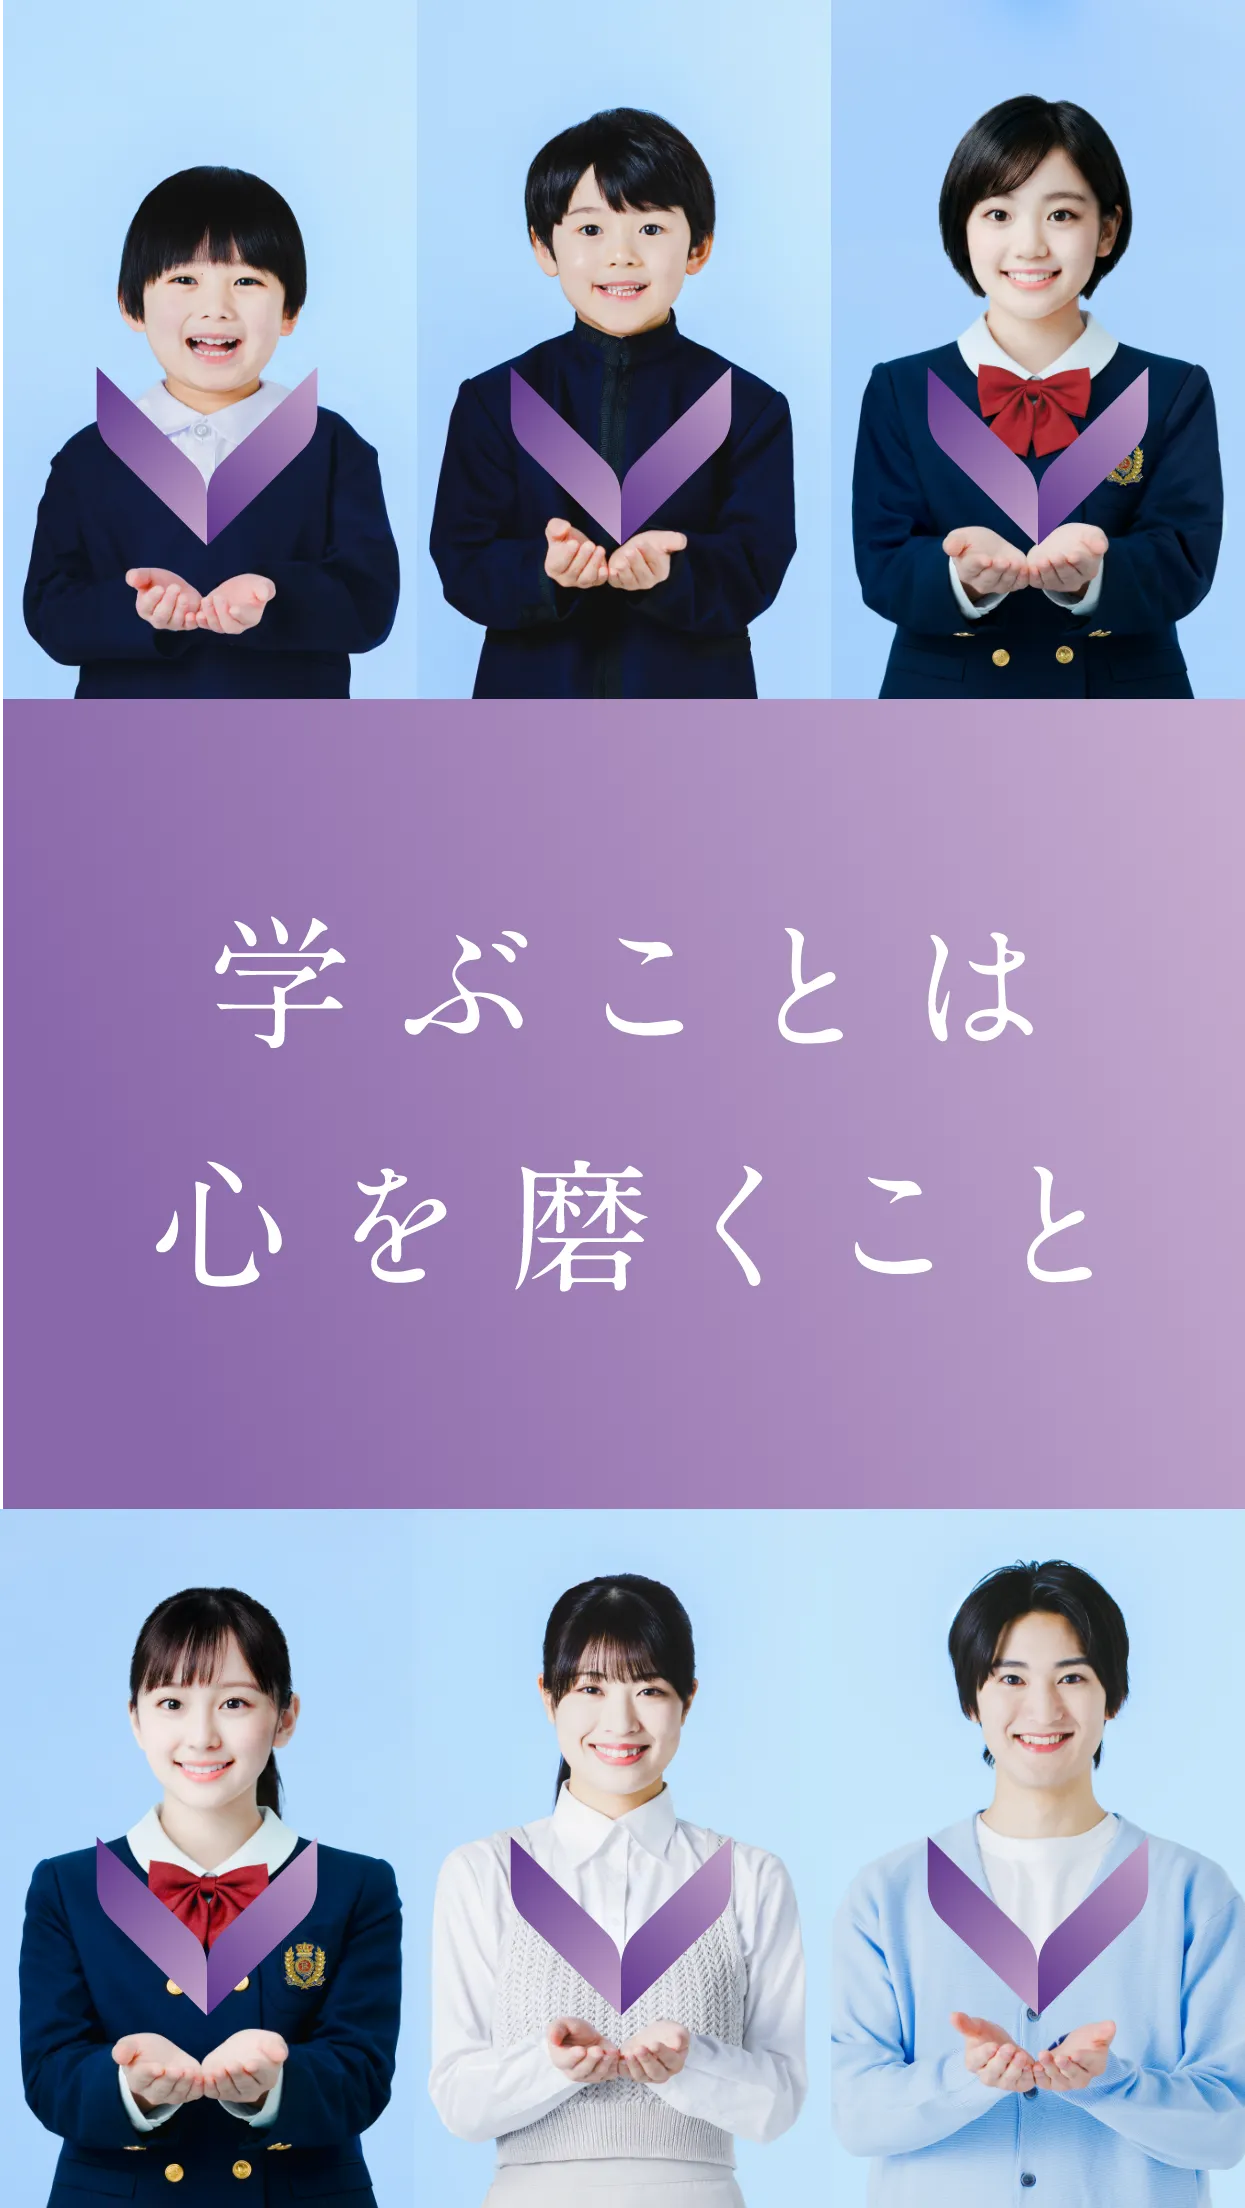
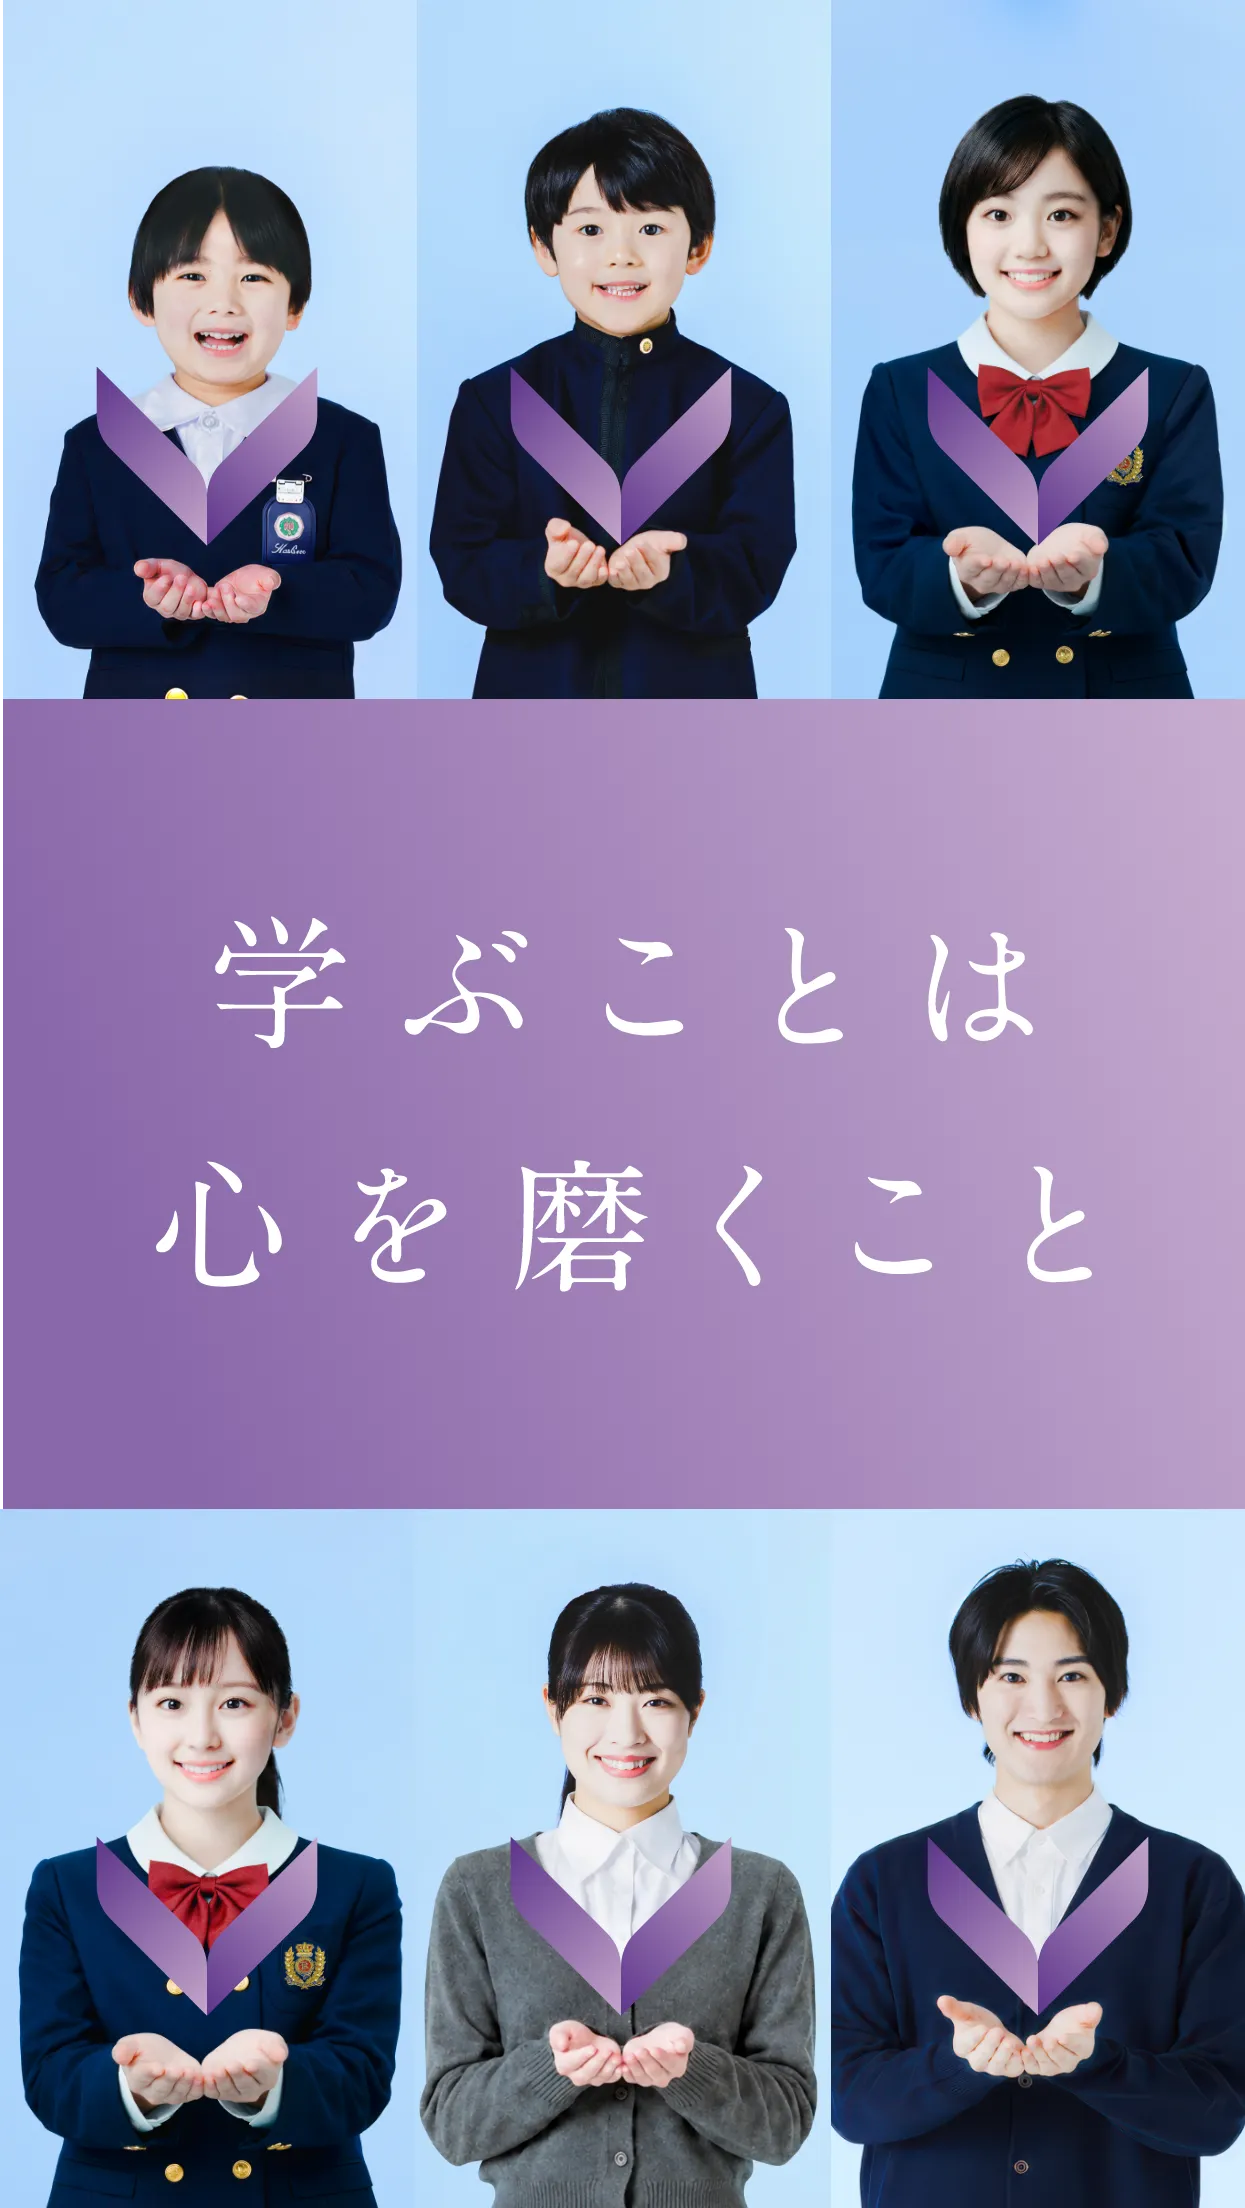
no message

diff --git a/KOSHIEN_academy/sass/page/_special.scss b/KOSHIEN_academy/sass/page/_special.scss
@@ -622,5 +622,23 @@ body {
         }
       }
     }
+
+    .item-filler-sp {
+      @include pc {
+        display: none;
+      }
+
+      @include sp {
+        display: block;
+        width: 100%;
+        overflow: hidden;
+
+        img {
+          display: block;
+          width: 100%;
+          height: auto;
+        }
+      }
+    }
   }
 }

diff --git a/KOSHIEN_academy/pages/page-special.php b/KOSHIEN_academy/pages/page-special.php
@@ -187,6 +187,12 @@ function special_br($t)
 
     </ul>
 
+    <?php if (isset($special_query) && (int) $special_query->post_count > 0) : ?>
+      <div class="item-filler-sp anime-fade" aria-hidden="true">
+        <img src="<?php echo esc_url(get_template_directory_uri() . '/img/special/column-02.webp'); ?>" alt="">
+      </div>
+    <?php endif; ?>
+
   </section>
 
 </div>
